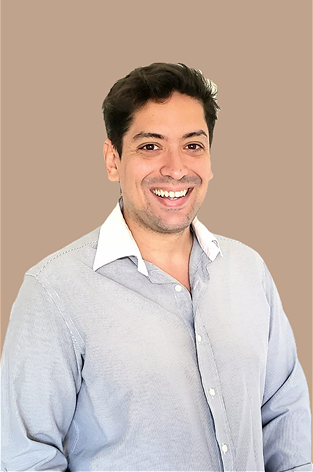
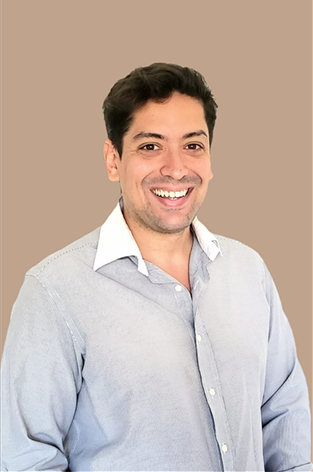
Add files via upload

diff --git a/nosotros-equipo.html b/nosotros-equipo.html
@@ -137,23 +137,13 @@
           </div>
 
           <div class="team-member team-classic">
-            <h3>Marcia Lema</h3>
-            <p class="member-title">msl@gllobell.com.ar</p>
-          </div>
-
-          <div class="team-member team-classic">
-            <h3>Giselle Coscia</h3>
+            <h3>Gisele Coscia</h3>
             <p class="member-title">gvc@gllobell.com.ar</p>
           </div>
 
           <div class="team-member team-classic">
-            <h3>Santiago Mendiburu</h3>
-            <p class="member-title">regulacion@gllobell.com.ar</p>
-          </div>
-
-          <div class="team-member team-classic">
-            <h3>Romina Gauna</h3>
-            <p class="member-title">alimentos@gllobell.com.ar</p>
+            <h3>Carolina Pavanetto</h3>
+            <p class="member-title">inscripciones@gllobell.com.ar</p>
           </div>
 
           <div class="team-member team-classic">
@@ -162,18 +152,23 @@
           </div>
 
           <div class="team-member team-classic">
+            <h3>Marcia Lema</h3>
+            <p class="member-title">msl@gllobell.com.ar</p>
+          </div>
+
+          <div class="team-member team-classic">
             <h3>Dario Giorno</h3>
             <p class="member-title">aarr@gllobell.com.ar</p>
           </div>
 
           <div class="team-member team-classic">
-            <h3>Daiana Navarro Diaz</h3>
-            <p class="member-title">aarr2@gllobell.com.ar</p>
+            <h3>Romina Gauna</h3>
+            <p class="member-title">alimentos@gllobell.com.ar</p>
           </div>
 
           <div class="team-member team-classic">
-            <h3>Carolina Pavanetto</h3>
-            <p class="member-title">inscripciones@gllobell.com.ar</p>
+            <h3>Daiana Navarro Diaz</h3>
+            <p class="member-title">aarr2@gllobell.com.ar</p>
           </div>
 
           <div class="team-member team-classic">
@@ -187,6 +182,11 @@
           </div>
 
           <div class="team-member team-classic">
+            <h3>Santiago Mendiburu</h3>
+            <p class="member-title">regulacion@gllobell.com.ar</p>
+          </div>
+
+          <div class="team-member team-classic">
             <h3>Jeremias Cuenca</h3>
             <p class="member-title">regulacion2@gllobell.com.ar</p>
           </div>
@@ -196,10 +196,10 @@
 
     <section class="team-section animate-on-scroll">
       <h2>Propiedad Intelectual</h2>
-      <div class="team-grid">
-          <div class="team-member team-classic" >
-            <h3>Natalia Majcherczyk</h3>
-            <p class="member-title">asistentemarcas@gllobell.com.ar</p>
+      <div class="team-grid marcas-grid">
+          <div class="team-member team-classic">
+            <h3>Nora Paez</h3>
+            <p class="member-title">np@gllobell.com.ar</p>
           </div>
 
           <div class="team-member team-classic">
@@ -209,7 +209,7 @@
 
           <div class="team-member team-classic">
             <h3>Lucia Malanca</h3>
-            <p class="member-title">asistentelegal@gllobell.com.ar</p>
+            <p class="member-title">asistentelegales@gllobell.com.ar</p>
           </div>
 
           <div class="team-member team-classic">
@@ -218,8 +218,13 @@
           </div>
 
           <div class="team-member team-classic">
-            <h3>Nora Paez</h3>
-            <p class="member-title">np@gllobell.com.ar</p>
+            <h3>Julieta Carlini</h3>
+            <p class="member-title">jmc@gllobell.com.ar</p>
+          </div>
+
+          <div class="team-member team-classic" >
+            <h3>Natalia Majcherczyk</h3>
+            <p class="member-title">asistentemarcas@gllobell.com.ar</p>
           </div>
       </div>
     </section>
@@ -265,7 +270,7 @@
       <div class="footer-col">
         <p><strong>Horario</strong></p>
         <p>Lunes a Viernes</p>
-        <p>09:00 am a 6:00 pm</p>
+        <p>9:00 am a 6:00 pm</p>
       </div>
       <div class="footer-col">
         <p><strong>Redes</strong></p>

diff --git a/contacto.html b/contacto.html
@@ -139,7 +139,7 @@
           <div class="contact-icon">🕐</div>
           <h3>Horario</h3>
           <p>Lunes a Viernes</p>
-          <p>09:00 am a 6:00 pm</p>
+          <p>9:00 am a 6:00 pm</p>
         </div>
       </div>
     </section>
@@ -152,7 +152,7 @@
     </div>
     </section>
   </main>
-  
+
   <footer>
     <div class="footer-container">
       <div class="footer-col">
@@ -167,7 +167,7 @@
       <div class="footer-col">
         <p><strong>Horario</strong></p>
         <p>Lunes a Viernes</p>
-        <p>09:00 am a 6:00 pm</p>
+        <p>9:00 am a 6:00 pm</p>
       </div>
       <div class="footer-col">
         <p><strong>Redes</strong></p>

diff --git a/styles.css b/styles.css
@@ -567,6 +567,14 @@ section {
   margin: 0 auto;
 }
 
+.marcas-grid{
+  display: grid;
+  grid-template-columns: repeat(2, 1fr);
+  gap: 30px;
+  max-width: 900px;
+  margin: 0 auto;
+
+}
 .team-member {
   text-align: center;
   transition: transform 0.3s ease;
@@ -1047,6 +1055,9 @@ footer {
   justify-content: center;
   align-items: center;
   text-align: center;
+}
+.marcas-grid{
+  grid-template-columns: 1fr;
 }
   .hero-logo {  display: block; width:80vw;max-width: 280px;
   margin: 0 auto;

diff --git a/areas-asuntos-regulatorios.html b/areas-asuntos-regulatorios.html
@@ -157,7 +157,7 @@
       <div class="footer-col">
         <p><strong>Horario</strong></p>
         <p>Lunes a Viernes</p>
-        <p>09:00 am a 6:00 pm</p>
+        <p>9:00 am a 6:00 pm</p>
       </div>
       <div class="footer-col">
         <p><strong>Redes</strong></p>

diff --git a/areas-propiedad-intelectual.html b/areas-propiedad-intelectual.html
@@ -181,7 +181,7 @@
       <div class="footer-col">
         <p><strong>Horario</strong></p>
         <p>Lunes a Viernes</p>
-        <p>09:00 am a 6:00 pm</p>
+        <p>9:00 am a 6:00 pm</p>
       </div>
       <div class="footer-col">
         <p><strong>Redes</strong></p>

diff --git a/index.html b/index.html
@@ -145,7 +145,7 @@
       <div class="footer-col">
         <p><strong>Horario</strong></p>
         <p>Lunes a Viernes</p>
-        <p>09:00 am a 6:00 pm</p>
+        <p>9:00 am a 6:00 pm</p>
       </div>
       <div class="footer-col">
         <p><strong>Redes</strong></p>

diff --git a/nosotros-historia.html b/nosotros-historia.html
@@ -127,7 +127,7 @@
       <div class="footer-col">
         <p><strong>Horario</strong></p>
         <p>Lunes a Viernes</p>
-        <p>09:00 am a 6:00 pm</p>
+        <p>9:00 am a 6:00 pm</p>
       </div>
       <div class="footer-col">
         <p><strong>Redes</strong></p>
